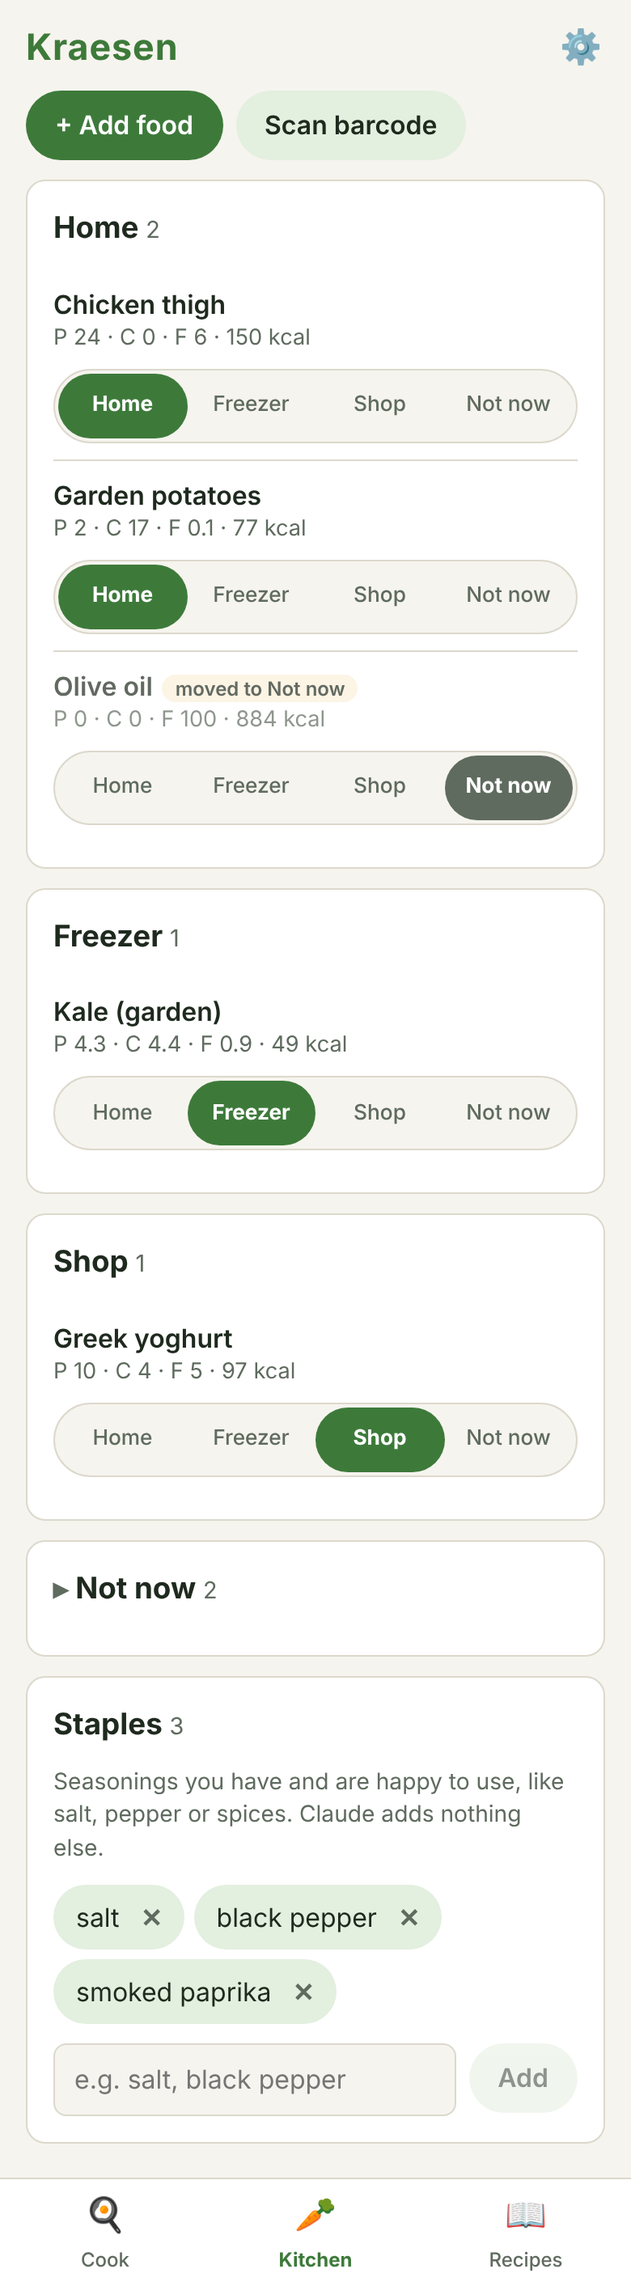
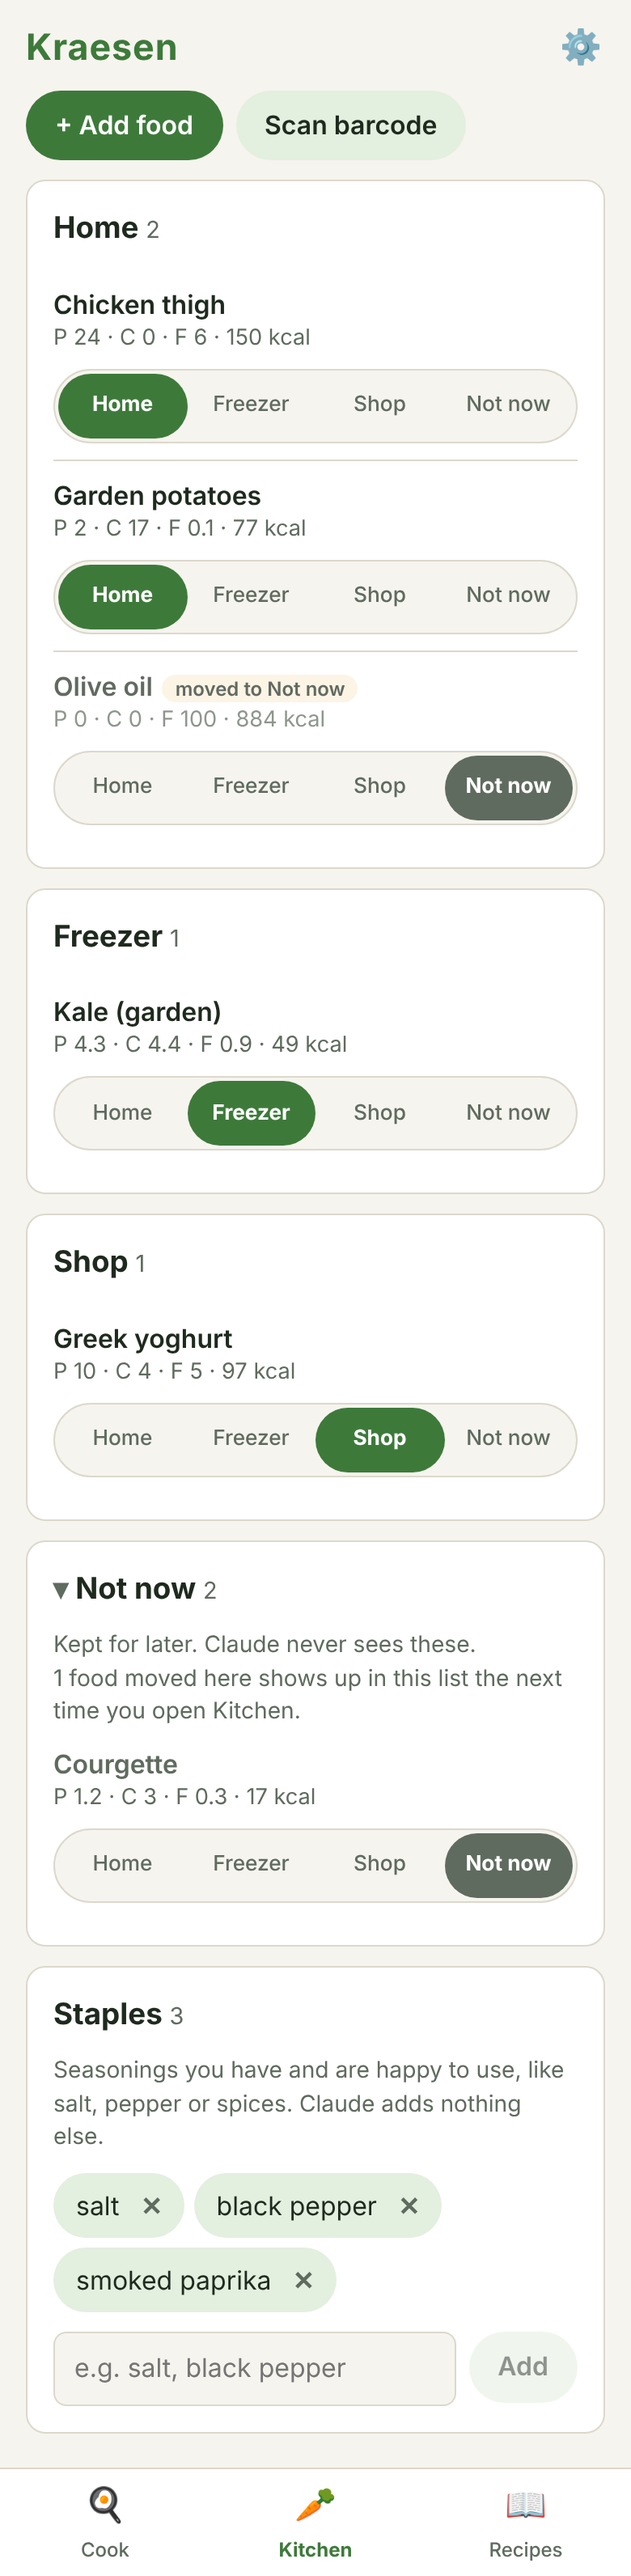
fix: explain foods moved into a Kitchen group that has rows of its own
Claude-Session: https://claude.ai/code/session_01NExJTuMKn94z8RMGD2mQMk

diff --git a/src/components/KitchenPage.tsx b/src/components/KitchenPage.tsx
@@ -111,10 +111,16 @@ export function KitchenPage() {
       )}
       {GROUPS.map((g) => {
         const items = shown.filter((w) => groupOf(w) === g.stock).sort((a, b) => a.name.localeCompare(b.name))
-        // The count is what is in this group now, including foods moved here whose rows stay in their old group.
+        // The count is what is in this group now, including foods moved here.
         const count = shown.filter((w) => w.stock === g.stock).length
         if (items.length === 0 && count === 0 && !g.empty) return null
-        const arrived = count > 0 && items.length === 0 && <p className="hint">Foods moved here show up in this list the next time you open Kitchen.</p>
+        // Foods moved here this visit are counted but keep their rows in their old group.
+        const incoming = count - items.filter((w) => w.stock === g.stock).length
+        const arrived = incoming > 0 && (
+          <p className="hint">
+            {incoming === 1 ? '1 food moved here shows' : `${incoming} foods moved here show`} up in this list the next time you open Kitchen.
+          </p>
+        )
         const title = (
           <h2>
             {STOCK_LABEL[g.stock]} <span className="count">{count}</span>
